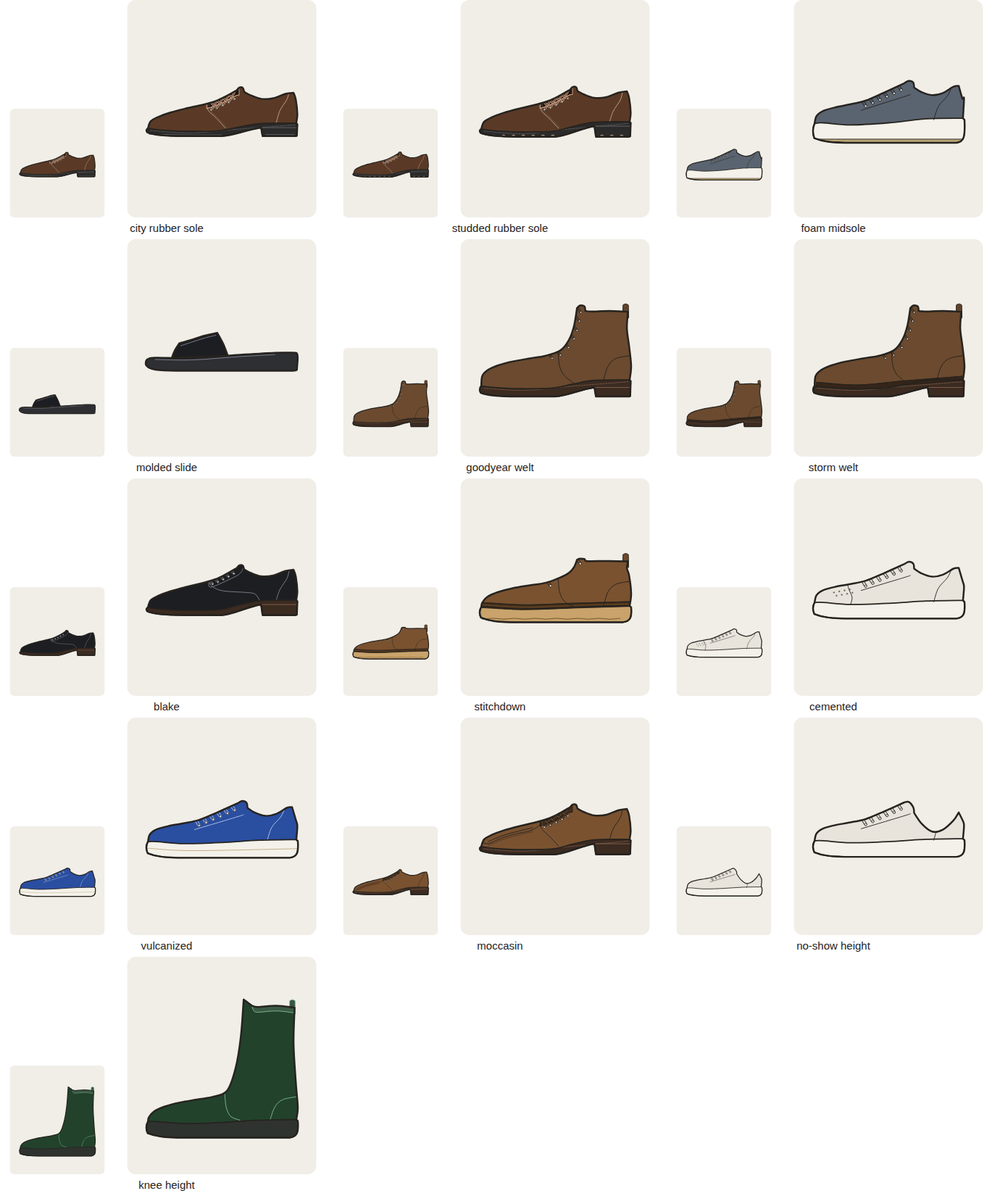
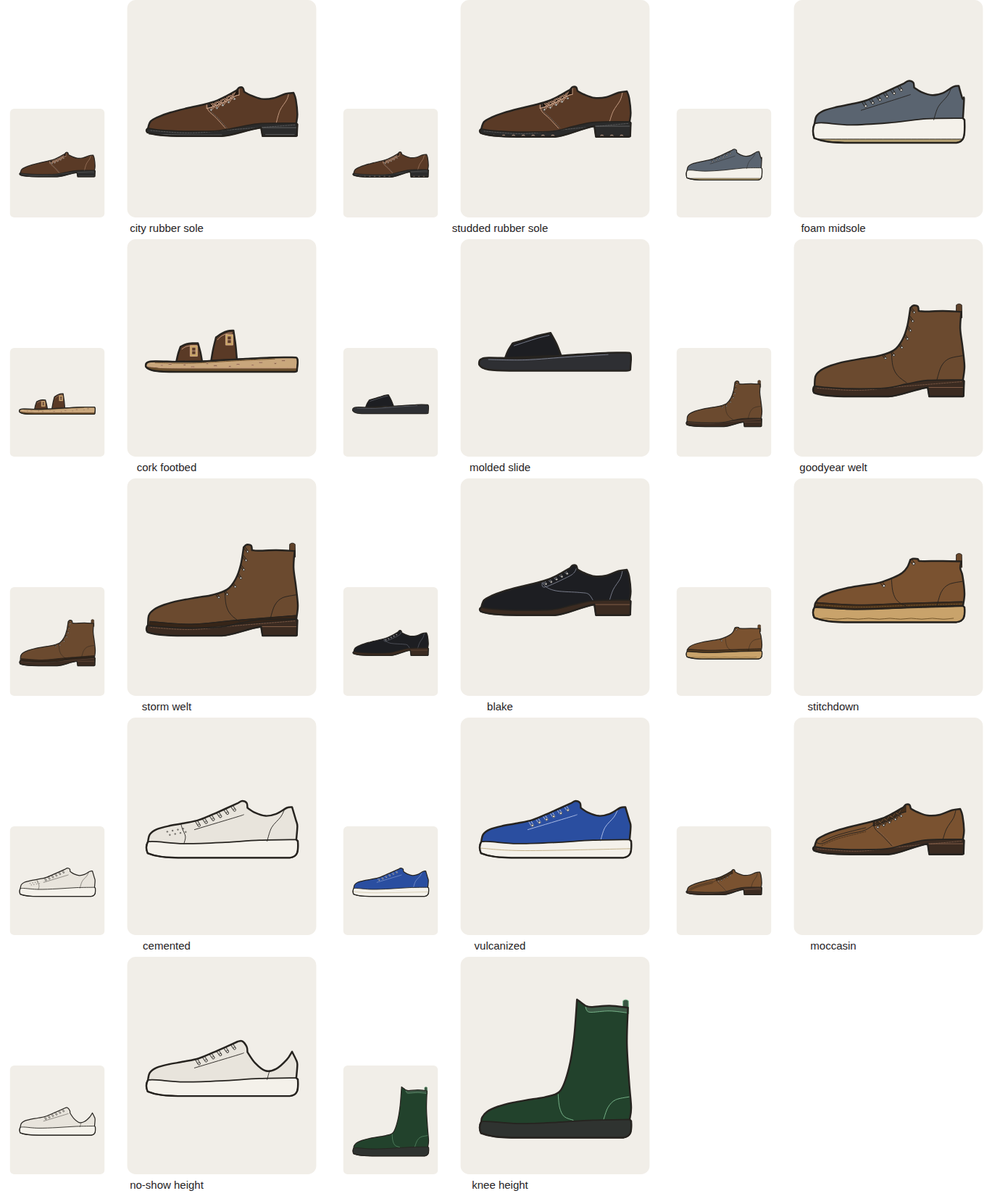
Footwear drawing: kinds, colourways, cork grain, tests, docs and demo

diff --git a/backend/closet/drawing/templates.py b/backend/closet/drawing/templates.py
@@ -2091,10 +2091,11 @@ SNEAKER_DEFAULTS = dict(height="low", sole="regular")
 #   sandal   slide | two_strap | strap     (style sandal) one wide strap; two buckled straps (default); or a
 #                                         forefoot strap with an instep strap up to an ankle strap and a heel strap
 #   kind     a footwear id                 what only that kind has (a western boot's stitching, a court shoe's
-#                                         perforations, a retro runner's overlays)
+#                                         perforations, a retro runner's overlays, a trainer's flat sole and saddle)
 #   shaft    0.35..0.95                    a boot's or high top's collar height, in shoe lengths (a service boot: 0.6)
 #   toe      round | almond | chisel | pointed   a lower, longer toe for the last three
-#   moc      True | False                  a moc toe's raised seam over the toe
+#   moc      True | False                  a moc toe's raised seam over the toe (a loafer has one unless False)
+#   lining   shearling                     a fleece lining turned over the collar
 #   tread    none | lug | crepe | wedge | cleats | jute | pebble | siped | city | studded | eva   what the sole is
 #                                          made of, as it shows
 #   heel     flat | stacked | block | cuban   a heeled shoe's heel (default: a low stacked one, no lifts drawn)
@@ -2116,6 +2117,7 @@ SNEAKER_DEFAULTS = dict(height="low", sole="regular")
 #                                          sneaker or a flat sole), a storm welt's bead, none, or the upper's flange stitched down
 #   cut      regular | low                 a no-show sneaker: the collar dips well under the ankle
 #   molded   True | False                  (style sandal) a moulded slide: one piece in the item's colour, no outsole
+#   cork     True | False                  (style sandal) a cork footbed's grain, flecked through its side
 #   ghillie  True | False                  leather loops for the laces instead of eyelets, and no tongue
 #   split    True | False                  a split toe: a seam down the front of the toe (with `moc`, the apron)
 #   upper    smooth_calf | shell_cordovan | oiled_pull_up | ...   the upper's leather: a soft polish (calf), a
@@ -2125,6 +2127,7 @@ SNEAKER_DEFAULTS = dict(height="low", sole="regular")
 
 SHOE_X0, SHOE_L, SHOE_G = 40.0, 320.0, 330.0   # toe tip x, length toe to heel, ground y
 METAL = "#c9a85c"   # a buckle or a horsebit
+SHEARLING = "#ece2cc"   # a slipper's fleece lining
 
 
 def _sp(u, v):
@@ -2263,6 +2266,12 @@ def _sandal(p, f) -> Shape:
         sh.parts.append(Part(_spline(out_top) + f" L {_pt(_sp(1.05, -0.02))} L {_pt(_sp(-0.05, -0.02))} Z", "inlay",
                              color="sole_dark", clip=True))
         sh.parts.append(Part(_spline(_shift(top[1:-1], 0, -0.01)), "edge", color="sole_line"))
+        if p.get("cork"):   # a cork footbed's grain: darker flecks through the side of the footbed
+            for i in range(19):
+                u = 0.05 + i * 0.05
+                lo, hi = 0.032 * f, tf(u) - 0.016
+                v = lo + (hi - lo) * ((i * 7) % 5 + 0.5) / 5
+                sh.parts.append(Part(_capsule(_sp(u, v), _sp(u + 0.008 * (i % 3), v), 2.4), "inlay", color="sole_dark", clip=True))
     for d in rims:
         sh.parts.append(Part(d, "edge"))
     for c in buckles:
@@ -2324,12 +2333,15 @@ def sneaker(**kw) -> Shape:
         else:
             th = {"runner": 0.15, "high_top": 0.105, "slip_on": 0.09}.get(style, 0.12) * f
             tf = {"runner": 0.085, "high_top": 0.085, "slip_on": 0.075}.get(style, 0.09) * (1 + (f - 1) * 0.8)
-            spring = 0.06 if style == "runner" else 0.03
-            rock = 0.36 if style == "runner" else 0.26                  # where the toe starts to lift
-            bev = 0.02 if style == "runner" else 0.006                  # heel bevel
+            sculpted = style == "runner" and p.get("kind") != "trainer"   # a trainer stands on a flat, stable sole
+            if style == "runner" and not sculpted:
+                th = tf = 0.1 * f
+            spring = 0.06 if sculpted else 0.03
+            rock = 0.36 if sculpted else 0.26                  # where the toe starts to lift
+            bev = 0.02 if sculpted else 0.006                  # heel bevel
             top = [(0.012, spring + tf * 0.85), (0.07, spring * 0.55 + tf), (0.25, tf + 0.003),
                    (0.5, tf + (th - tf) * 0.35), (0.75, th - 0.004), (0.993, th)]
-            if style == "runner":   # a sculpted midsole: rises at the heel, dips under the arch
+            if sculpted:   # a sculpted midsole: rises at the heel, dips under the arch
                 top = [(0.012, spring + tf * 0.85), (0.07, spring * 0.5 + tf), (0.25, tf), (0.45, tf + 0.006),
                        (0.62, th * 0.8), (0.8, th * 0.95), (0.993, th)]
             under = (f"Q {_pt(_sp(-0.008, spring + tf * 0.45))} {_pt(_sp(0.01, spring))} "
@@ -2635,7 +2647,8 @@ def sneaker(**kw) -> Shape:
         # the moccasin seam round the vamp, and what lies across it
         strap = p.get("strap", "penny")
         moc = [(0.6, 0.205), (0.48, 0.2), (0.34, 0.178), (0.2, 0.148), (0.1, 0.12), (0.04, 0.09)]
-        sh.seams.append(_spline(moc[1:] if strap == "tassel" else moc))
+        if p.get("moc", True):   # a slipper's plain vamp has none
+            sh.seams.append(_spline(moc[1:] if strap == "tassel" else moc))
         if strap == "penny":   # the saddle strap across the vamp under the topline, with the slot cut in it
             band = (_spline([(0.612, 0.3), (0.606, 0.2), (0.594, 0.152)]) + " " +
                     _spline([(0.594, 0.152), (0.52, 0.14), (0.44, 0.146)], start=False) + " " +
@@ -2792,6 +2805,18 @@ def sneaker(**kw) -> Shape:
     if p.get("collar_pad"):   # a padded collar, or a snow boot's fleece cuff
         pad = band(_shift(groups[1], 0, 0.005), 0.05 if style != "boot" else 0.07)
         sh.parts.append(Part(pad, "band", clip=True))
+    if p.get("lining") == "shearling":   # a fleece lining turned over the collar, its edge in soft tufts
+        rim = _shift(groups[1], 0, 0.004)
+        sh.parts.append(Part(band(rim, 0.04), "inlay", color=SHEARLING, clip=True))
+        u0, u1 = min(u for u, _ in rim), max(u for u, _ in rim)
+        for i in range(1, 12):
+            u = u0 + (u1 - u0) * i / 12
+            v = _poly_v(rim, u)
+            sh.parts.append(Part(_capsule(_sp(u, v - 0.04), _sp(u, v - 0.04), 5.5), "inlay", color=SHEARLING, clip=True))
+    if kind == "trainer":   # a synthetic saddle overlay from the sole up to the lacing, holding the midfoot
+        sh.parts.append(Part(_spline([(0.4, tf_at(0.4) - 0.01), (0.44, 0.2), (0.47, vtop(0.47) - 0.02)]) + " " +
+                             _spline([(0.58, vtop(0.58) - 0.02), (0.57, 0.2), (0.54, tf_at(0.54) - 0.01)], start=False) + " Z",
+                             "inlay", color="deep", clip=True))
     if p.get("lace_collar"):   # a rawhide lace round the collar, through the vamp, tied at the side
         cord = _spline(_shift(groups[1], 0, -0.014)) + " " + _spline(_shift(groups[1][::-1], 0, -0.028), start=False) + " Z"
         sh.parts.append(Part(cord, "inlay", color="lace", clip=True))

diff --git a/backend/closet/tagger/taxonomy.py b/backend/closet/tagger/taxonomy.py
@@ -136,18 +136,22 @@ FOOTWEAR: dict[str, tuple[str, dict, str, str]] = {
     "retro_runner": ("runner", {"kind": "retro_runner"}, "drawn", "a runner with a suede toe and side overlays"),
     "running_shoe": ("runner", {}, "drawn", "a runner"),
     "trail_runner": ("runner", {"tread": "lug"}, "drawn", "a runner on a lugged sole (a toggle lace when the lacing says so)"),
-    "trainer": ("runner", {}, "approximate", "drawn as a running shoe"),
+    "trainer": ("runner", {"kind": "trainer", "upper": "knit_mesh"}, "drawn",
+                "a runner on a flat, stable sole, a mesh upper and a saddle overlay holding the midfoot"),
     "canvas_slip_on": ("slip_on", {}, "drawn", "a laceless canvas shoe"),
     "cleats": ("low_sneaker", {"tread": "cleats"}, "drawn", "studs under the sole"),
     "chunky_sneaker": ("runner", {"sole": "chunky"}, "drawn", "a runner on a chunky sole"),
     "boat_shoe": ("loafer", {"strap": "none", "lace_collar": True, "tread": "siped"}, "drawn", "a rawhide lace round the collar, tied at the side, on a white sole"),
-    "camp_moc": ("loafer", {"strap": "none", "lace_collar": True, "tread": "siped"}, "approximate", "drawn as a boat shoe"),
+    "camp_moc": ("loafer", {"strap": "none", "lace_collar": True, "tread": "lug"}, "drawn",
+                 "a boat shoe's lace round the collar and two eyelets, on a lug sole"),
     "espadrille": ("slip_on", {"tread": "jute", "foxing": False}, "drawn", "a slip-on on a braided rope sole"),
     "sandal": ("sandal", {"sandal": "two_strap"}, "drawn", "two buckled straps over a footbed"),
     "slide": ("sandal", {"sandal": "slide"}, "drawn", "one wide strap over a footbed"),
     "flip_flop": ("sandal", {"sandal": "thong"}, "drawn", "a thin strap from a post between the toes, back over the foot"),
-    "moccasin_slipper": ("slip_on", {"moc": True, "collar_pad": True, "foxing": False}, "approximate", "a moc seam and a soft collar; no fleece texture"),
-    "velvet_slipper": ("loafer", {"strap": "none"}, "approximate", "a plain loafer; no velvet nap"),
+    "moccasin_slipper": ("slip_on", {"moc": True, "lining": "shearling", "foxing": False, "upper": "suede"}, "drawn",
+                         "a suede slip-on with a moc seam and a fleece lining turned over the collar"),
+    "velvet_slipper": ("loafer", {"strap": "none", "moc": False, "upper": "velvet"}, "drawn",
+                       "a plain-vamp slipper in velvet with its sheen (an embroidered crest is not drawn)"),
     "felt_clog": ("slip_on", {"backless": True, "foxing": False}, "drawn", "open at the back above the heel"),
 }
 # the footwear block's toe treatments and lacings, in its order, and what the drawing makes of each
@@ -253,7 +257,7 @@ FOOTWEAR_SOLE = {
     "eva_foam_midsole": ({"tread": "eva"}, "drawn", "a deeper foam midsole over a thin, darker rubber outsole"),
     "siped_deck": ({"tread": "siped"}, "drawn", "a thin white sole"), "cleats": ({"tread": "cleats"}, "drawn", "studs under the sole"),
     "jute_rope": ({"tread": "jute"}, "drawn", "a braided rope sole"),
-    "cork_footbed": ({}, "drawn", "a sandal's cork footbed"),
+    "cork_footbed": ({"cork": True}, "drawn", "a sandal's cork footbed, its grain flecked through the side"),
     "molded_slide": ({"molded": True}, "drawn", "one moulded piece in the slide's colour: a deeper footbed, no outsole"),
 }
 FOOTWEAR_HEEL = {
@@ -1209,12 +1213,15 @@ COVERAGE["eyelets_typical"] = {k: (D, "the eyelets counted on one side; the usua
 COVERAGE["laces"] = {v: (status, note) for v, (_, status, note) in FOOTWEAR_LACES.items()}
 COVERAGE["construction"] = {v: (status, note) for v, (_, status, note) in FOOTWEAR_CONSTRUCTION.items()}
 COVERAGE["upper_material"] = {v: (status, note) for v, (_, _, status, note) in FOOTWEAR_UPPER.items()}
-COVERAGE["leather_colorways"] = {v: (A_, "drawn in the item's colour") for v in (
-    "black", "dark_brown", "mid_brown", "tan", "cognac", "oxblood", "walnut", "snuff_suede", "sand_suede", "navy_suede",
-    "grey_suede")}
-COVERAGE["sneaker_colorways"] = {v: (A_, "drawn in the item's colour") for v in (
-    "white", "off_white", "black", "grey", "navy", "multi")}
-COVERAGE["sneaker_colorways"]["cream_gum_sole"] = (A_, "the item's colour, with a gum sole when the sole colour says so")
+# a colourway is the shoe's colour, and the drawing paints the colour measured from the photo
+COVERAGE["leather_colorways"] = {v: (D, "the shoe drawn in its measured colour") for v in (
+    "black", "dark_brown", "mid_brown", "tan", "cognac", "oxblood", "walnut")}
+COVERAGE["leather_colorways"].update({v: (D, "the measured colour, with the suede's nap when the upper is tagged suede")
+                                      for v in ("snuff_suede", "sand_suede", "navy_suede", "grey_suede")})
+COVERAGE["sneaker_colorways"] = {v: (D, "the shoe drawn in its measured colour") for v in (
+    "white", "off_white", "black", "grey", "navy")}
+COVERAGE["sneaker_colorways"]["cream_gum_sole"] = (D, "the measured colour, on a gum sole in the sole's measured colour")
+COVERAGE["sneaker_colorways"]["multi"] = (A_, "the main colour, and a second one on the trim when measured: not every colour")
 for _key in BOTTOM_DRAWING:
     COVERAGE["trouser_pockets" if _key == "pockets" else _key] = {
         v: (status, note) for v, (_, status, note) in BOTTOM_DRAWING[_key].items()}

diff --git a/backend/tests/test_drawing.py b/backend/tests/test_drawing.py
@@ -151,11 +151,38 @@ def _drawn(tags: dict) -> tuple[str, dict]:
     (dict(footwear="derby", upper_material="patent"), "derby", {"shine": True}),
     (dict(footwear="flip_flop"), "sandal", {"sandal": "thong"}),
     (dict(footwear="service_boot", toe_treatment="apron"), "boot", {"moc": True}),
+    (dict(footwear="trainer"), "runner", {"kind": "trainer", "upper": "knit_mesh"}),
+    (dict(footwear="camp_moc"), "loafer", {"tread": "lug", "lace_collar": True}),
+    (dict(footwear="moccasin_slipper"), "slip_on", {"lining": "shearling", "moc": True, "upper": "suede"}),
+    (dict(footwear="velvet_slipper"), "loafer", {"moc": False, "upper": "velvet"}),
+    (dict(footwear="service_boot", laces="round_rope"), "boot", {"lace_kind": "round_rope"}),
+    (dict(footwear="service_boot", upper_material="roughout"), "boot", {"upper": "roughout"}),
+    (dict(footwear="service_boot", shoe_construction="storm_welt"), "boot", {"welt": "storm"}),
+    (dict(footwear="desert_boot", shoe_construction="stitchdown"), "boot", {"welt": "stitchdown", "tread": "crepe"}),
+    (dict(footwear="derby", toe_treatment="split_toe"), "derby", {"moc": True, "split": True}),
+    (dict(footwear="derby", lacing="ghillie"), "derby", {"ghillie": True}),
+    (dict(footwear="derby", sole="studded_rubber"), "derby", {"tread": "studded"}),
+    (dict(footwear="slide", sole="molded_slide"), "sandal", {"molded": True}),
+    (dict(footwear="running_shoe", footwear_height="no_show"), "runner", {"cut": "low"}),
+    (dict(footwear="plain_toe_oxford", toe_shape="chisel"), "oxford", {"toe": "chisel"}),
 ])
 def test_the_footwear_fields_choose_the_shoe_drawing(details, want_style, want):
     template, params = _drawn(answer("boots" if "boot" in details["footwear"] else "sneakers", **details))
     assert template == "sneaker" and params["style"] == want_style
     assert {k: params.get(k) for k in want} == want
+
+
+@pytest.mark.parametrize("details, want", [
+    (dict(footwear="service_boot", upper_material="suede"), {"texture": "suede"}),
+    (dict(footwear="service_boot", upper_material="waxed_canvas"), {"texture": "canvas", "sheen": True}),
+    (dict(footwear="derby", upper_material="woven_leather"), {"texture": "woven"}),
+    (dict(footwear="velvet_slipper"), {"texture": "velvet", "sheen": True}),
+    (dict(footwear="chukka", laces="rawhide"), {"lace_color": "#b48a5a"}),
+])
+def test_a_shoes_upper_and_laces_reach_the_drawing(details, want):
+    _, _, extras, _ = drawing_for(ItemTags.model_validate(answer("boots" if "boot" in details["footwear"] else "sneakers",
+                                                                  **details)))
+    assert {k: extras.get(k) for k in want} == want
 
 
 @pytest.mark.parametrize("category, details, want", [

diff --git a/bench/tests/test_taxonomy.py b/bench/tests/test_taxonomy.py
@@ -617,8 +617,8 @@ def test_the_taggers_shoe_words_choose_the_drawing(style, words, want_style, wan
 
 def test_only_what_is_drawn_leaves_the_seen_list():
     from closet_bench.taxonomy import shoe_words
-    # monk_strap is drawn now (#149), patent_oxford too (#163): velvet_slipper is a footwear id still drawn only approximately
-    assert shoe_words("derby", ["velvet_slipper", "tassels", "5 eyelets", "red sole"])[2] == ["tassels", "5 eyelets"]
+    # every footwear id is drawn now (velvet_slipper since #184); a word the drawing does not know stays out
+    assert shoe_words("derby", ["velvet_slipper", "tassels", "5 eyelets", "red sole"])[2] == ["velvet_slipper", "tassels", "5 eyelets"]
     assert shoe_words("derby", ["patent_oxford", "5 eyelets"])[2] == ["patent_oxford", "5 eyelets"]
 
 
@@ -697,6 +697,21 @@ def test_every_footwear_bottoms_and_colour_value_is_in_coverage():
     (dict(style="runner"), "toggle", [False, True]),
     (dict(style="boot"), "toggle", [False, True]),
     (dict(style="oxford"), "shine", [False, True]),
+    (dict(style="derby"), "lace_kind", [None, "flat_waxed", "round_waxed", "round_rope", "rawhide"]),
+    (dict(style="derby"), "ghillie", [False, True]),
+    (dict(style="derby", moc=True), "split", [False, True]),
+    (dict(style="boot"), "welt", [None, "storm", "blake", "stitchdown"]),
+    (dict(style="low_sneaker"), "welt", [None, "goodyear"]),
+    (dict(style="low_sneaker"), "cut", [None, "low"]),
+    (dict(style="derby"), "tread", [None, "city", "studded"]),
+    (dict(style="low_sneaker"), "tread", [None, "eva"]),
+    (dict(style="oxford"), "toe", [None, "chisel"]),
+    (dict(style="oxford"), "upper", [None, "smooth_calf", "shell_cordovan", "oiled_pull_up"]),
+    (dict(style="runner"), "kind", [None, "trainer"]),
+    (dict(style="slip_on"), "lining", [None, "shearling"]),
+    (dict(style="loafer"), "moc", [True, False]),
+    (dict(style="sandal", sandal="slide"), "molded", [False, True]),
+    (dict(style="sandal"), "cork", [False, True]),
 ])
 def test_every_footwear_part_draws_its_own_picture_on_the_same_ground(base, key, values):
     pictures = set()

diff --git a/backend/closet/drawing/frontshoe.py b/backend/closet/drawing/frontshoe.py
@@ -26,6 +26,7 @@ LOOK = 24.0            # degrees the viewer looks down at the shoes from
 TURN = 11.0            # degrees each toe is turned out
 METAL = "#c9a85c"
 TEXTURE_SCALE = 0.4    # an upper's surface (pebble grain, suede ...) at the figure's scale: a shoe here is a few cm wide
+SHEARLING = "#ece2cc"   # a slipper's fleece lining
 LINING = "#3a342e"     # the inside of a shoe: a dark warm grey, a little of the shoe's colour in it
 ANKLE_CM = 13.0        # the wearer's ankle: where it is drawn up to above the sole, in a low shoe or a sandal ...
 ANKLE_OVER_CM = 3.0    # ... and above the top of a boot's shaft
@@ -323,7 +324,7 @@ def _opening(p, view, hw, inset, table, sole_t, shaft, base, ankle, upper_d, uid
     """The way in: the collar of a low shoe, or the top of a boot's shaft, with the dark lining inside; and the
     wearer's ankle standing in it when asked for, up to where the leg drawn above it takes over."""
     out = []
-    lining = _mix(base, LINING, 0.82)
+    lining = SHEARLING if p.get("lining") == "shearling" else _mix(base, LINING, 0.82)
     if shaft:
         rim = [view(4.7 * math.cos(2 * math.pi * k / 32) * 0.9, 0.2 + 5.2 * 0.9 * math.sin(2 * math.pi * k / 32) / LENGTH,
                     shaft) for k in range(32)]
@@ -336,6 +337,9 @@ def _opening(p, view, hw, inset, table, sole_t, shaft, base, ankle, upper_d, uid
             h = sole_t + _interp(table, 0.04) - 0.5 + (0.6 if math.sin(a) > 0 else 0) * math.sin(a)
             rim.append(view(x, u, h))
     rim_d = _path(rim)
+    if p.get("lining") == "shearling":   # the fleece turned over the collar, a soft cream rim round the opening
+        out.append(f'<path d="{rim_d}" fill="none" stroke="{INK}" stroke-width="5.4" stroke-linejoin="round"/>'
+                   f'<path d="{rim_d}" fill="none" stroke="{SHEARLING}" stroke-width="3.6" stroke-linejoin="round"/>')
     out.append(f'<path d="{rim_d}" fill="{lining}" stroke="{INK}" stroke-width="1.4" stroke-linejoin="round"/>')
     if ankle is not None:
         pts = _column(view, sole_t + 2.0, leg)

diff --git a/tools/make_coverage_sheet.py b/tools/make_coverage_sheet.py
@@ -2,8 +2,9 @@
 
     python tools/make_coverage_sheet.py GROUP [OUT.svg] [--png OUT.png]
 
-GROUP is one of tops, trousers, jackets, shoes, shoes-uppers, shoes-laces, shoes-soles, shoes-kinds, rest. Each cell is an item drawn the way the app draws it (from a
-tagger answer, in the owner's style), at two sizes: the closet grid's and the item page's. The same command run on an
+GROUP is one of tops, trousers, jackets, shoes, shoes-uppers, shoes-laces, shoes-soles, shoes-kinds, rest. Each cell
+is an item drawn the way the app draws it (from a tagger answer, in the owner's style), at two sizes: the closet grid's
+and the item page's. The same command run on an
 older checkout of the code gives the "before" sheet. With `--png` the sheet is also turned into a picture by a Chrome
 or Chromium found on this computer.
 """
@@ -123,6 +124,7 @@ CASES: dict[str, list[tuple[str, str, str, dict, dict]]] = {
         ("city rubber sole", "dress_shoes", "#5a3a26", dict(shoe_style="derby", sole="rubber_city"), {}),
         ("studded rubber sole", "dress_shoes", "#5a3a26", dict(shoe_style="derby", sole="studded_rubber"), {}),
         ("foam midsole", "sneakers", "#5a6470", dict(shoe_style="low_sneaker", sole="eva_foam_midsole"), {}),
+        ("cork footbed", "sandals", "#5a3a26", dict(footwear="sandal", sole="cork_footbed"), {}),
         ("molded slide", "sandals", "#1d1e22", dict(footwear="slide", sole="molded_slide"), {}),
         ("goodyear welt", "boots", "#6b4a2f", dict(footwear="service_boot", shoe_construction="goodyear_welt"), {}),
         ("storm welt", "boots", "#6b4a2f", dict(footwear="service_boot", shoe_construction="storm_welt"), {}),

diff --git a/backend/closet/drawing/__init__.py b/backend/closet/drawing/__init__.py
@@ -13,4 +13,4 @@ draws from tags without it.
 # Raised whenever a template, the renderer or the fills change what a drawing looks like. The app keeps the
 # version each item was drawn with and draws an item again, the first time it is asked for, when it is older.
 # Regenerate the demo closet (`tools/make_demo.py`) in the same change: it records the version it was drawn with.
-DRAWING_VERSION = 8
+DRAWING_VERSION = 9

diff --git a/docs/BACKLOG.md b/docs/BACKLOG.md
@@ -95,7 +95,7 @@ Patterns from the photo (owner's request; it had fallen out of the app):
 ## Track 1: recognition and drawing (continuous)
 
 Checkpoints, not stops:
-- [ ] **Coverage of the taxonomy.** Every visible value in `docs/menswear-taxonomy.json` is listed in `bench/closet_bench/taxonomy.py` (`COVERAGE`) as drawn, approximate or not drawn. The owner looks over the render sheets; the approximate and not-drawn values are worked down, most common garments first. #163 took the first pass (470 drawn, 109 approximate, 118 not drawn before; 496, 87 and 114 after): knit textures, the hidden button-down, each trouser kind's look, notched hems, rivets and roping, the trench, parka, varsity and waxed jacket, patent shine, flip-flops, D-rings, toggle laces, the robe's sash and velvet's sheen. Before/after sheets are `docs/screenshots/coverage-*.png`, written by `tools/make_coverage_sheet.py`. Still open, most common first: plain weaves and jerseys that read as plain cloth at item size, colourwork knits (Fair Isle, Nordic, argyle), reverse and forward pleats (one pleat at grid size), back pockets and back details (the drawing is front-on), shoe uppers and laces, sportswear and lounge sets, and ties, gloves, eyewear, watches and socks.
+- [ ] **Coverage of the taxonomy.** Every visible value in `docs/menswear-taxonomy.json` is listed in `bench/closet_bench/taxonomy.py` (`COVERAGE`) as drawn, approximate or not drawn. The owner looks over the render sheets; the approximate and not-drawn values are worked down, most common garments first. #163 took the first pass (470 drawn, 109 approximate, 118 not drawn before; 496, 87 and 114 after): knit textures, the hidden button-down, each trouser kind's look, notched hems, rivets and roping, the trench, parka, varsity and waxed jacket, patent shine, flip-flops, D-rings, toggle laces, the robe's sash and velvet's sheen. Before/after sheets are `docs/screenshots/coverage-*.png`, written by `tools/make_coverage_sheet.py`. #184 drew footwear (its axes 110 drawn, 34 approximate, 24 not drawn before; 165, 3 and 0 after; 551, 56 and 90 overall): the upper's surface for every upper material, the five kinds of lace, ghillie lacing, split and chisel toes, city, studded and foam soles, a moulded slide, a cork footbed's grain, each construction round the sole, a no-show cut, the trainer, camp moc, moccasin and velvet slippers, and the colourways; the front-on shoes on the figure follow. Left approximate: a knee boot (it would not fit the card at the shoes' common scale), synthetic leather (it looks like calf) and a multi colourway. Before/after sheets are `docs/screenshots/coverage-shoes-*.png` and `figure-shoes-front-*.png`. Still open, most common first: plain weaves and jerseys that read as plain cloth at item size, colourwork knits (Fair Isle, Nordic, argyle), reverse and forward pleats (one pleat at grid size), back pockets and back details (the drawing is front-on), sportswear and lounge sets, and ties, gloves, eyewear, watches and socks.
 - [ ] **Accuracy on the owner's photos.** Tagging accuracy, confidence calibration, time and cost per model, on the coarse fields and the detail fields. Decides which model tags, the review threshold, and which fields need an extra shot.
 
 Done:
@@ -119,7 +119,7 @@ To do:
 - [x] Drawing faults its own author listed (#110): the tab collar has close-set points and a buttoned strap, the wing collar larger tips; lapels on dark or patterned cloth carry a facing shade; the puffer's sides and sleeves swell between its channels; the trucker jacket has a buttoned waistband with side adjusters; the vest's armhole band keeps its width to the side seam; linen texture is sparser and fainter. Before/after sheets: `docs/screenshots/drawing-faults-*.png`. Still open: at item size the tab strap and wing tips are only specks, and tab and point collars are hard to tell apart.
 - [x] Accessories drawn from the taxonomy's accessory ids and kinds: bags, belts, caps, beanies, brimmed hats and scarves have shapes of their own; ties, pocket squares, gloves, glasses, watches and socks a plain tag. The outfit figure wears a belt, scarf, hat and bag. Sheet: `docs/screenshots/accessories.png` (`tools/make_accessory_sheet.py`). Waiting for the owner's verdict.
 - [ ] Shapes of their own for ties, pocket squares, gloves, glasses, watches and socks (a plain tag stands in for them today), and accessories in the demo closet.
-- [ ] Shoes left after #108: a monk strap's buckles, a flip-flop's thong, apron and split toes, speed hooks and D-rings, boot kinds (chukka, western, rain), a cork footbed's grain, patent shine.
+- [x] Shoes left after #108: a monk strap's buckles, a flip-flop's thong, apron and split toes, speed hooks and D-rings, boot kinds (chukka, western, rain), a cork footbed's grain, patent shine. All drawn by #184, with the shoe uppers and laces.
 - [ ] Trousers: the taxonomy's bottoms are a signature line each; rise, fit names and jeans washes are not tagged yet.
 - [ ] Re-run the tagging test with the tightened prompt (snaps, hip pockets and feature flags were wrong in the first run).
 - [ ] Striped, floral and camouflage hard cases on real photos.

diff --git a/docs/DECISIONS.md b/docs/DECISIONS.md
@@ -543,6 +543,10 @@ Facts checked in Anthropic's documentation on 2026-11-12:
 | Garments that open all the way down can be drawn open | The owner expects jackets, cardigans and overshirts to be shown both buttoned and open over a shirt. Composing an outfit is the outfit view (stop C), but the drawing has to support it, so the open state and a proof that layers line up on the shared anchors are built in track 1. In the closet grid an item is shown closed by default. |
 | A garment worn open is drawn as the layers it is made of | The first version cut the closed drawing down the middle and slid the halves apart. The owner rejected it: the under front was missing the strip hidden beneath the overlap, only one front had fastenings, a wide coat could not open, and a shirt underneath was cut off at the hem. Now the garment is a back, two fronts and what is sewn to them. Both fronts are the same size: each reaches past the centre by the overlap, and the part of the under front that the closed drawing hides is the mirror image of the top front's. The front that lies on top (the wearer's left, as on men's clothes) carries the buttonholes, vertical on a shirt or cardigan and horizontal on a jacket or coat; the one underneath carries the buttons. Each front swings open about its side seam like a door, so it is drawn narrower, as a turned panel looks, while sleeves and sides stay put: the garment keeps its width and its shoulder points, and a double-breasted coat opens as far as a shirt. The inside of the back shows between the fronts and inside the neck. Worn over another garment the order is: the outer garment's inside back, the whole garment underneath, the outer fronts and sleeves; a long tee hangs below a short jacket and a shirt collar stands above a jacket's. Each garment only states where its top front's edge runs; the renderer does the rest, so every garment that opens gets this. Open or closed is a choice made when wearing, not a tag on the item. |
 | Reference drawings may be downloaded from Wikimedia Commons, Openclipart and SVG Repo | Added to the `daily-clother` environment at the owner's prompting. They are looked at and measured, never copied into the repo. Commons rate-limits hard: one request, then wait. |
+| A shoe's upper material is a surface laid over the whole shoe, not a different shape (#184) | Suede, nubuck, roughout, pebble grain and felt are fine marks in the item's own colour; canvas, knit mesh, woven leather and velvet are small repeating tiles; calf, cordovan and pull-up are a soft gloss or paler patches; rubber, waxed canvas and velvet add a sheen. The shape still comes from the kind of shoe, so an upper never changes how a shoe is cut. Synthetic leather stays approximate: drawn it looks like smooth calf, and nothing in a drawing tells them apart. |
+| A knee-high boot stays approximate | Every shoe on the card is drawn at one scale, so that a boot and a sneaker look their true sizes side by side. A real knee boot at that scale does not fit the card: it is drawn at the tallest shaft that does, about a shoe length high. |
+| A colourway is drawn as the colour measured from the photo | The colourway (oxblood, sand suede, white, cream with a gum sole) is the shoe's colour, and the drawing already paints the measured colour; a suede colourway gets the suede surface when the upper is tagged suede. A "multi" colourway stays approximate: the drawing shows the main colour and one trim colour, not every colour. |
+| A shoe's construction shows round the sole from the side (#184) | A Goodyear welt is a stitch row; a storm welt adds a darker bead above it; Blake and cemented shoes show none; a stitchdown shows the upper's flange, stitched, on top of the sole. From the front only the toe, laces, straps and sole thickness change. |
 
 ### The outfit as worn
 
